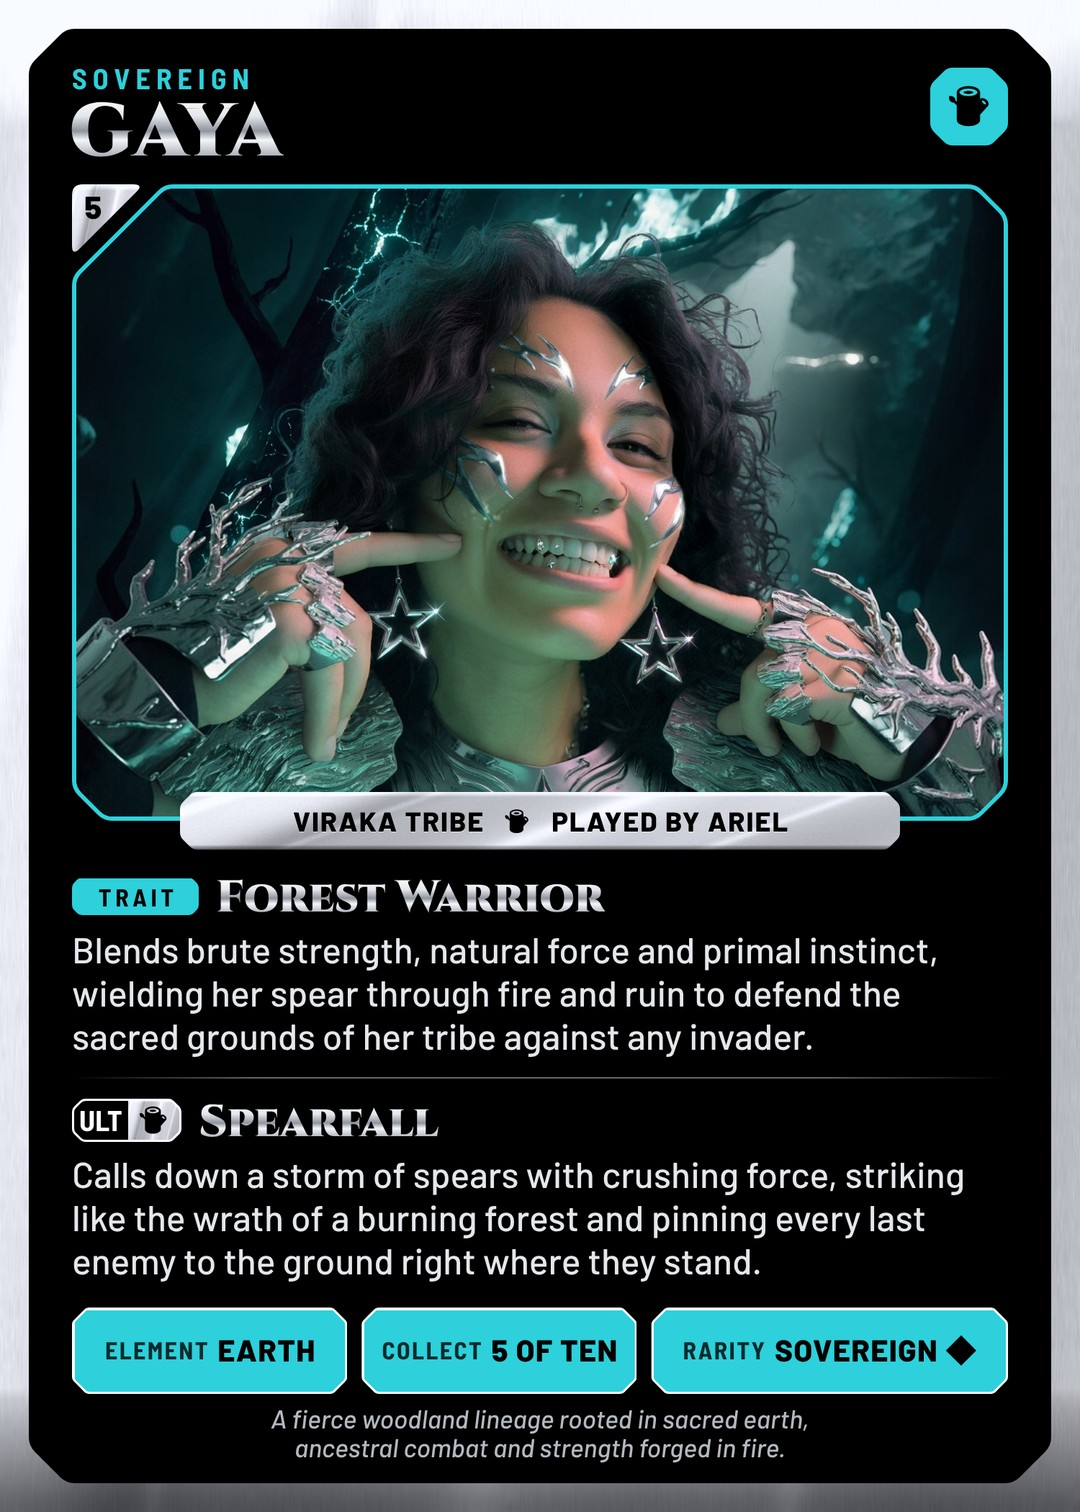
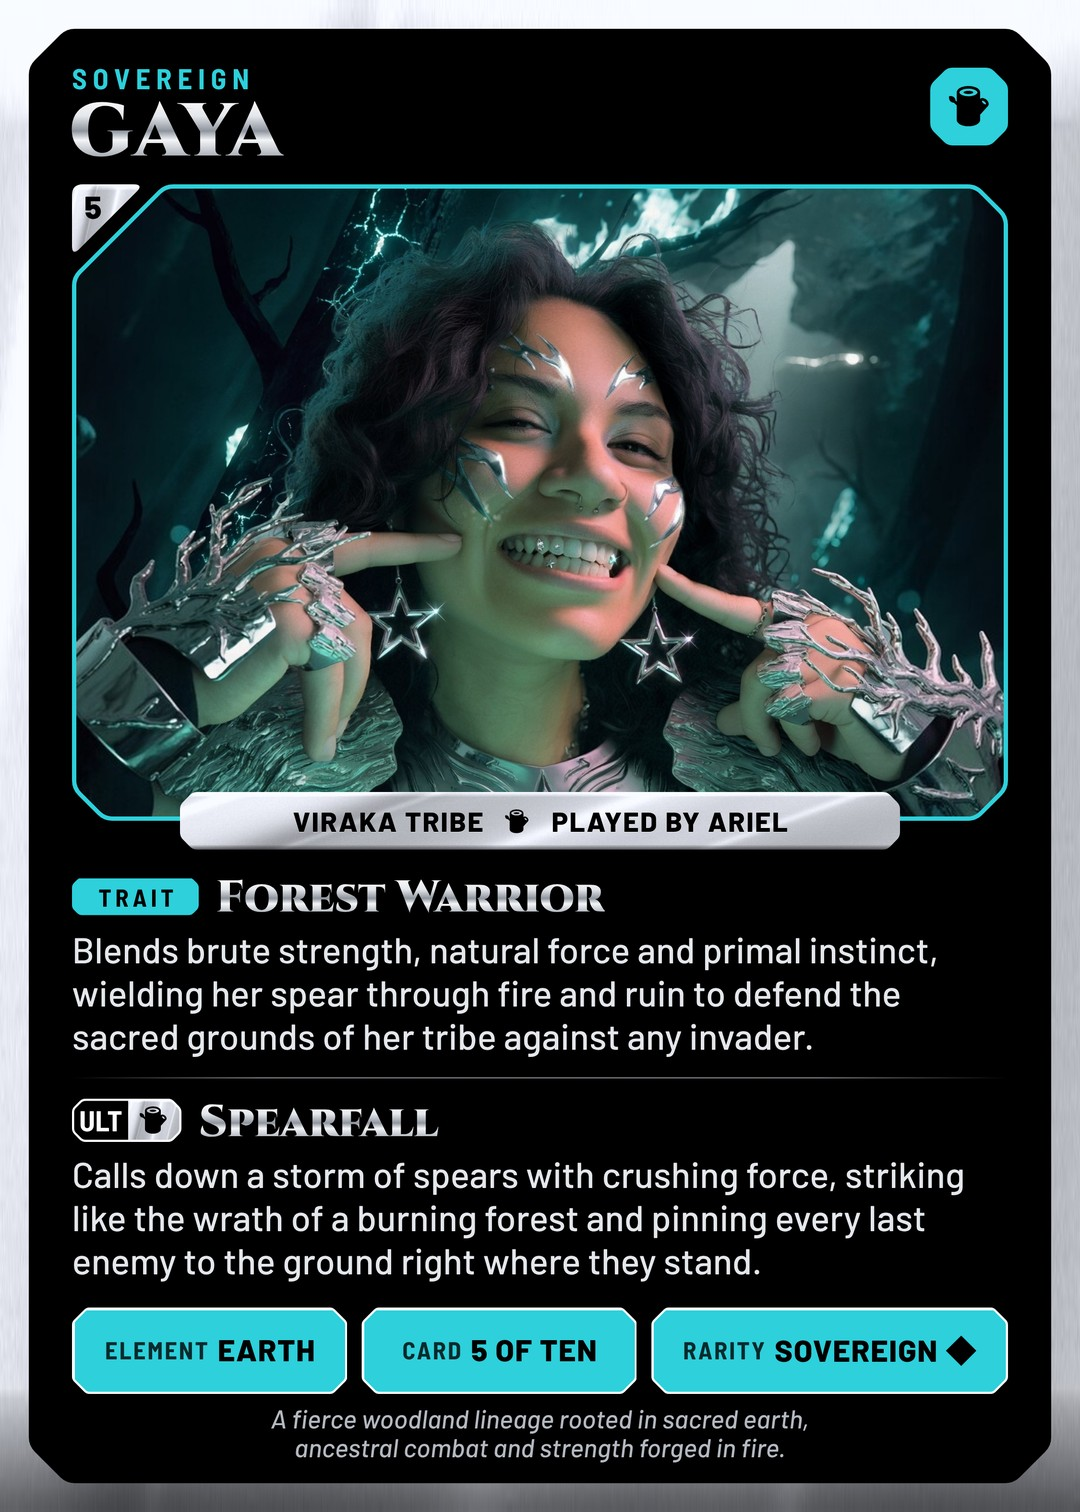
Cards: CARD _ OF TEN on all ten fronts, fans and press images
Claude-Session: https://claude.ai/code/session_01XqBoTDZG36PsB1FtNjsWYS

Changed region(s): [[0.3667, 0.8704, 0.5806, 0.9015]]

diff --git a/book/index.html b/book/index.html
@@ -166,7 +166,7 @@ footer img{width:54px}
 <section class="cardsec"><div class="wrap">
 <div class="head"><span class="eyebrow">Collect all ten</span><h2 class="chrome">The Cards</h2></div>
 <p>Ten collectible trading cards, one per sovereign, with her trait, her ult and her element. The back of every card opens the realms.</p>
-<div class="fan"><img class="fc" src="cards/card-01-tamisra.jpg" alt="Tamisra trading card" style="left:14.00%;top:62.00%;--r:-30.0deg;z-index:95"><img class="fc" src="cards/card-02-banshee.jpg" alt="Banshee trading card" style="left:21.20%;top:57.20%;--r:-24.0deg;z-index:96"><img class="fc" src="cards/card-03-jade.jpg" alt="Jade trading card" style="left:28.40%;top:53.07%;--r:-18.0deg;z-index:97"><img class="fc" src="cards/card-04-mamba.jpg" alt="Mamba trading card" style="left:35.60%;top:49.69%;--r:-12.0deg;z-index:98"><img class="fc" src="cards/card-05-gaya.jpg" alt="Gaya trading card" style="left:42.80%;top:47.22%;--r:-6.0deg;z-index:99"><img class="fc back" src="cards/card-back.jpg" alt="Card back" style="left:50.00%;top:46.00%;--r:0.0deg;z-index:100"><img class="fc" src="cards/card-06-flora.jpg" alt="Flora trading card" style="left:57.20%;top:47.22%;--r:6.0deg;z-index:99"><img class="fc" src="cards/card-07-chrona.jpg" alt="Chrona trading card" style="left:64.40%;top:49.69%;--r:12.0deg;z-index:98"><img class="fc" src="cards/card-08-hex.jpg" alt="Hex trading card" style="left:71.60%;top:53.07%;--r:18.0deg;z-index:97"><img class="fc" src="cards/card-09-strobe.jpg" alt="Strobe trading card" style="left:78.80%;top:57.20%;--r:24.0deg;z-index:96"><img class="fc" src="cards/card-10-glacia.jpg" alt="Glacia trading card" style="left:86.00%;top:62.00%;--r:30.0deg;z-index:95"></div>
+<div class="fan"><img class="fc" src="cards/card-01-tamisra.jpg?v=2" alt="Tamisra trading card" style="left:14.00%;top:62.00%;--r:-30.0deg;z-index:95"><img class="fc" src="cards/card-02-banshee.jpg?v=2" alt="Banshee trading card" style="left:21.20%;top:57.20%;--r:-24.0deg;z-index:96"><img class="fc" src="cards/card-03-jade.jpg?v=2" alt="Jade trading card" style="left:28.40%;top:53.07%;--r:-18.0deg;z-index:97"><img class="fc" src="cards/card-04-mamba.jpg?v=2" alt="Mamba trading card" style="left:35.60%;top:49.69%;--r:-12.0deg;z-index:98"><img class="fc" src="cards/card-05-gaya.jpg?v=2" alt="Gaya trading card" style="left:42.80%;top:47.22%;--r:-6.0deg;z-index:99"><img class="fc back" src="cards/card-back.jpg" alt="Card back" style="left:50.00%;top:46.00%;--r:0.0deg;z-index:100"><img class="fc" src="cards/card-06-flora.jpg?v=2" alt="Flora trading card" style="left:57.20%;top:47.22%;--r:6.0deg;z-index:99"><img class="fc" src="cards/card-07-chrona.jpg?v=2" alt="Chrona trading card" style="left:64.40%;top:49.69%;--r:12.0deg;z-index:98"><img class="fc" src="cards/card-08-hex.jpg?v=2" alt="Hex trading card" style="left:71.60%;top:53.07%;--r:18.0deg;z-index:97"><img class="fc" src="cards/card-09-strobe.jpg?v=2" alt="Strobe trading card" style="left:78.80%;top:57.20%;--r:24.0deg;z-index:96"><img class="fc" src="cards/card-10-glacia.jpg?v=2" alt="Glacia trading card" style="left:86.00%;top:62.00%;--r:30.0deg;z-index:95"></div>
 </div></section>
 <section id="get"><div class="wrap get">
 <span class="eyebrow">First printing</span><h2 class="chrome">Join the Waitlist</h2>
